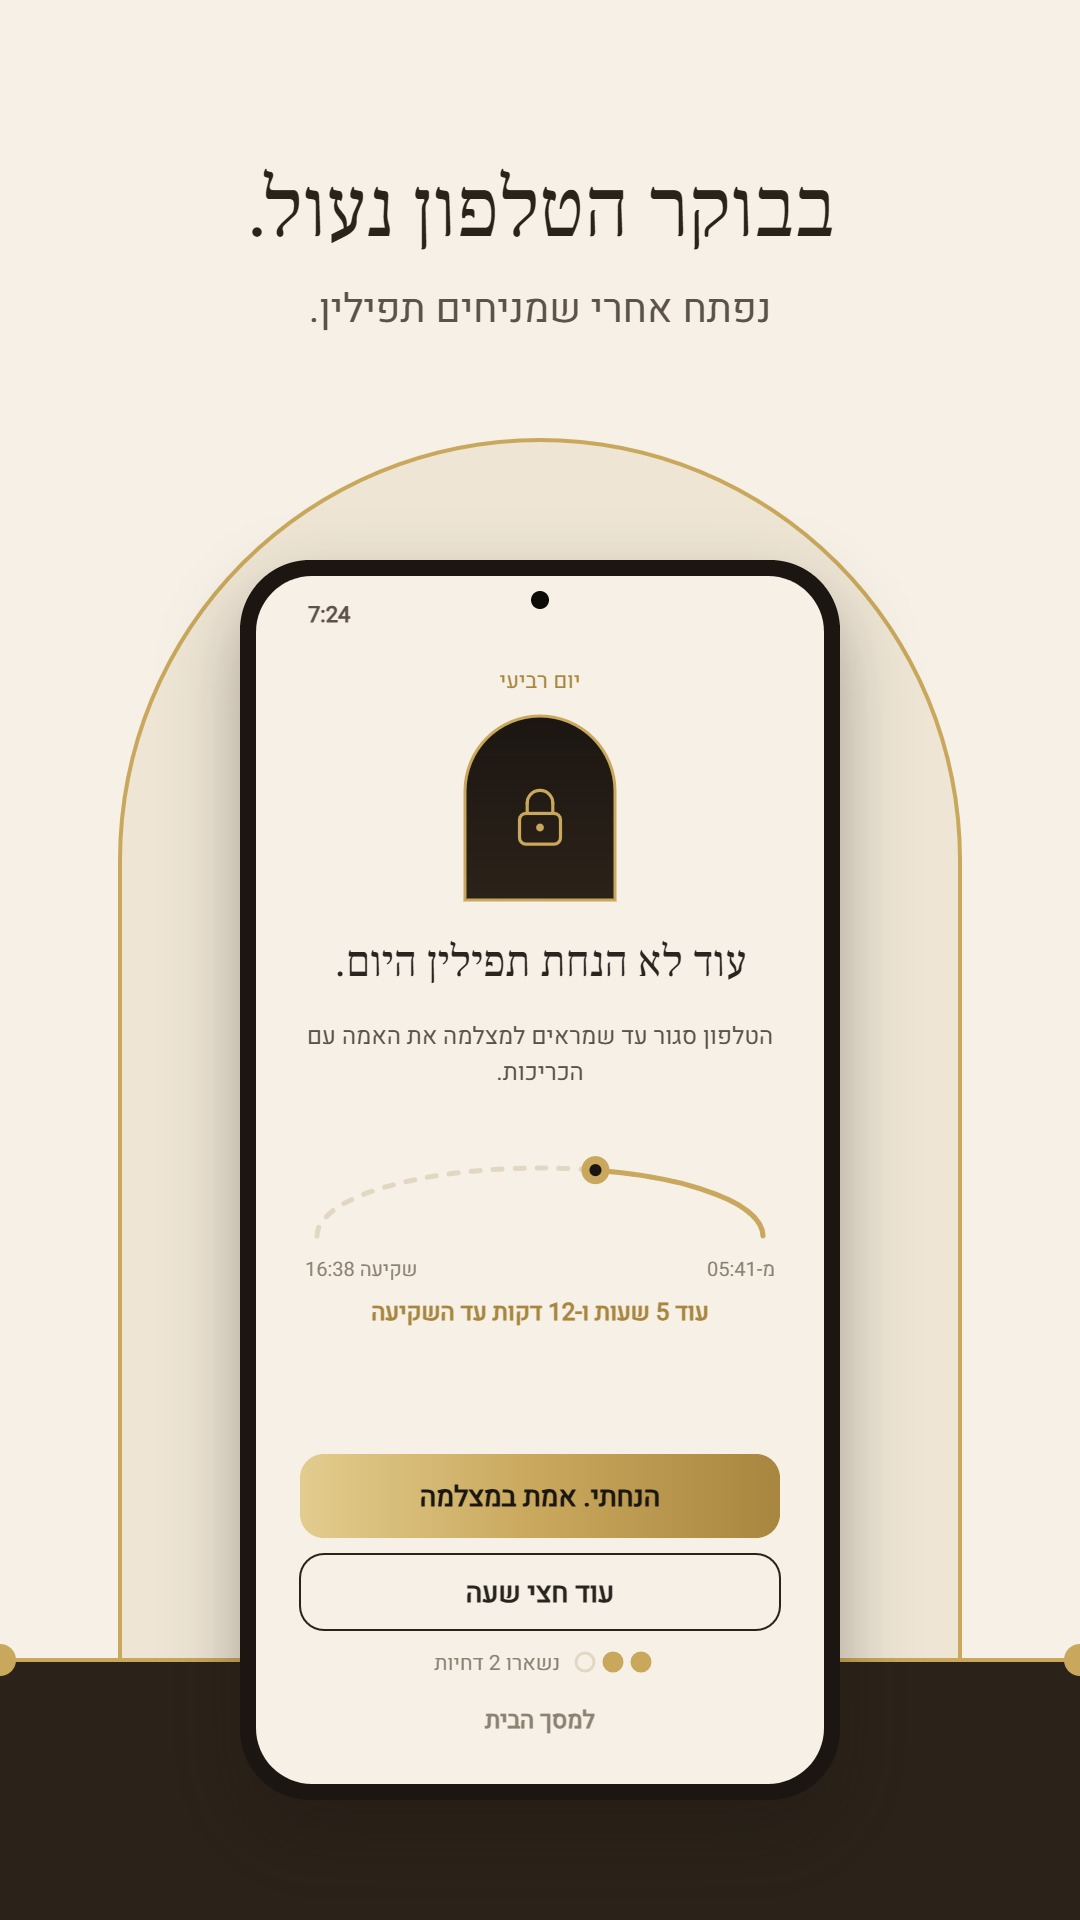
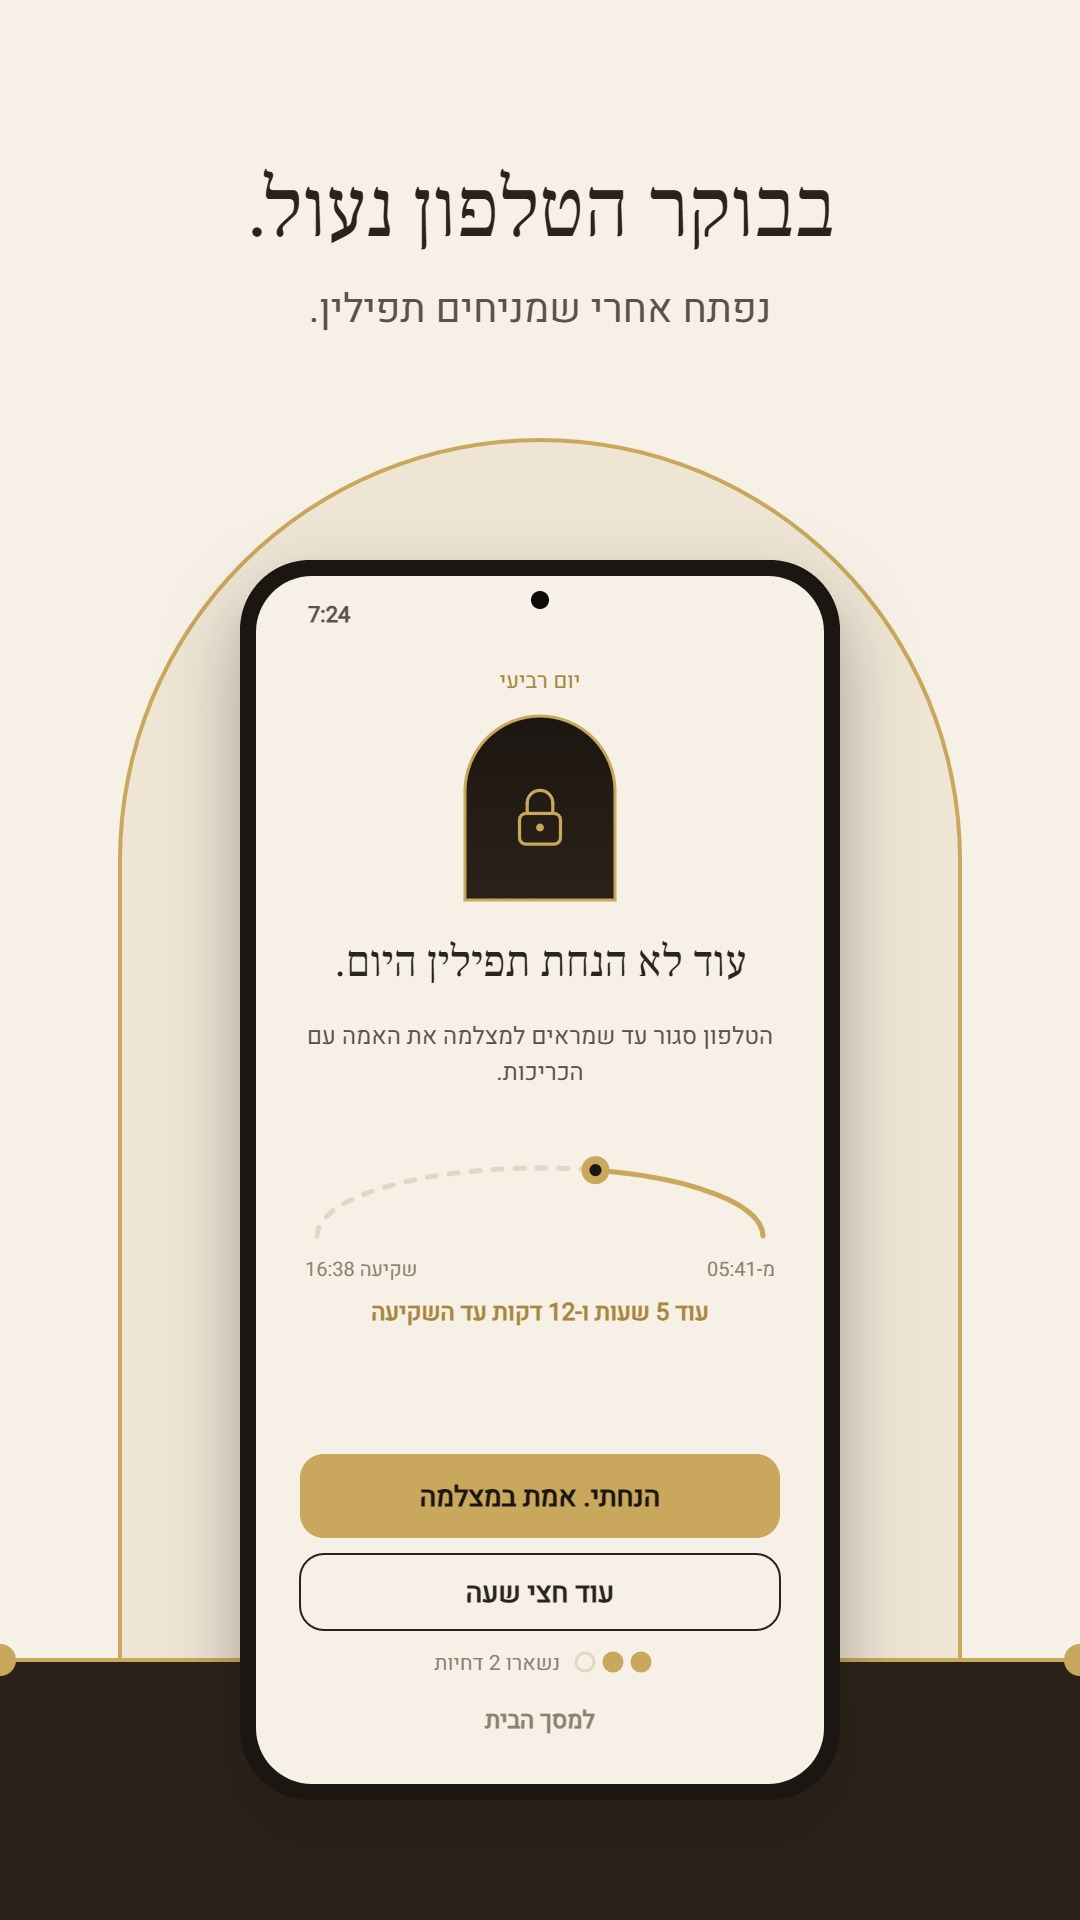
Anti-template pass: buttons say where they lead, no decorative sparkles, flat gold button, store copy lists the new screens; v2.7.1
- First run: "מתחילים" / "הבא" replaced by "להרשאה הראשונה", "להרשאה הבאה", "לבחירת השעה", "לדריכת המנעול".
- Sparkle icons in arches replaced by icons that mean something (tefillin on welcome, candle on dedication).
- GoldButton is one flat gold, no three-stop metallic gradient; store strip and home preview match.
- Play listing: a short section on the day window, the streak calendar and the widget.

Changed region(s): [[0.275, 0.75, 0.3972, 0.8125], [0.6417, 0.75, 0.7333, 0.8125]]

diff --git a/app/src/main/java/app/henachti/ui/screens/OnboardingScreen.kt b/app/src/main/java/app/henachti/ui/screens/OnboardingScreen.kt
@@ -249,12 +249,18 @@ private fun SetupSteps(
         }
 
         Spacer(Modifier.height(12.dp))
+        // every button says where it leads, never a bare "next"
+        val toNext = when {
+            step + 1 <= perms.size -> "להרשאה הבאה"
+            step + 1 == last - 1 -> "לבחירת השעה"
+            else -> "לדריכת המנעול"
+        }
         when {
-            step == 0 -> GoldButton("מתחילים", { step++ }, Modifier.fillMaxWidth())
+            step == 0 -> GoldButton("להרשאה הראשונה", { step++ }, Modifier.fillMaxWidth())
             step <= perms.size -> {
                 val p = perms[step - 1]
                 if (p.on) {
-                    GoldButton("הבא", { step++ }, Modifier.fillMaxWidth())
+                    GoldButton(toNext, { step++ }, Modifier.fillMaxWidth())
                 } else {
                     GoldButton(p.action, p.open, Modifier.fillMaxWidth())
                     if (!p.required) {
@@ -264,7 +270,7 @@ private fun SetupSteps(
                     }
                 }
             }
-            step == last - 1 -> GoldButton("הבא", { step++ }, Modifier.fillMaxWidth())
+            step == last - 1 -> GoldButton(toNext, { step++ }, Modifier.fillMaxWidth())
             else -> {
                 GoldButton("דרוך את המנעול", onArm, Modifier.fillMaxWidth(), enabled = required)
                 if (!required) {
@@ -289,7 +295,7 @@ private fun WelcomePage() {
     Column(Modifier.fillMaxWidth(), horizontalAlignment = Alignment.CenterHorizontally) {
         Arch(width = 116.dp, height = 144.dp) {
             Column(horizontalAlignment = Alignment.CenterHorizontally) {
-                Icon(painterResource(R.drawable.ic_sparkle), contentDescription = null, tint = Palette.Gold, modifier = Modifier.size(38.dp))
+                Icon(painterResource(R.drawable.ic_tefillin), contentDescription = null, tint = Palette.Gold, modifier = Modifier.size(40.dp))
                 Spacer(Modifier.height(8.dp))
                 Text("וּקְשַׁרְתָּם לְאוֹת", style = MaterialTheme.typography.labelSmall, color = Palette.GoldSoft)
             }

diff --git a/app/src/main/java/app/henachti/ui/Components.kt b/app/src/main/java/app/henachti/ui/Components.kt
@@ -190,13 +190,12 @@ fun InkButton(text: String, onClick: () -> Unit, modifier: Modifier = Modifier, 
 
 @Composable
 fun GoldButton(text: String, onClick: () -> Unit, modifier: Modifier = Modifier, enabled: Boolean = true) {
-    val brush = if (enabled) Brush.horizontalGradient(listOf(Palette.GoldDeep, Palette.Gold, Palette.GoldSoft))
-    else Brush.horizontalGradient(listOf(Palette.Sand, Palette.Sand))
+    // one flat accent colour, no metallic gradient
     Box(
         modifier
             .height(56.dp)
             .clip(ButtonShape)
-            .background(brush)
+            .background(if (enabled) Palette.Gold else Palette.Sand)
             .clickable(enabled = enabled, onClick = onClick),
         contentAlignment = Alignment.Center,
     ) {

diff --git a/store/home-mock.html b/store/home-mock.html
@@ -32,7 +32,7 @@ function sky(ax, ay, aw, ah, frac, hours) {
   else dot(px, py, sun * .8, null, P.Gold, 2 * S);
 }
 
-function goldBtn(cx, py, w, label) { const h = 56 * S; rr(cx - w / 2, py, w, h, 16 * S); const g = x.createLinearGradient(cx - w / 2, 0, cx + w / 2, 0); g.addColorStop(0, P.GoldSoft); g.addColorStop(.5, P.Gold); g.addColorStop(1, P.GoldDeep); x.fillStyle = g; x.fill(); T(label, cx, py + h / 2 + 6 * S, f(16, 600), P.ChocolateDeep); return py + h; }
+function goldBtn(cx, py, w, label) { const h = 56 * S; rr(cx - w / 2, py, w, h, 16 * S); x.fillStyle = P.Gold; x.fill(); T(label, cx, py + h / 2 + 6 * S, f(16, 600), P.ChocolateDeep); return py + h; }
 
 function phone(ox, oy, m) {
   const pw = 600, ph = 1240;

diff --git a/app/src/main/java/app/henachti/ui/screens/DedicationScreen.kt b/app/src/main/java/app/henachti/ui/screens/DedicationScreen.kt
@@ -70,7 +70,7 @@ fun DedicationScreen(
                 horizontalAlignment = Alignment.CenterHorizontally,
             ) {
                 Arch(width = 88.dp, height = 106.dp) {
-                    Icon(painterResource(R.drawable.ic_sparkle), contentDescription = null, tint = Palette.Gold, modifier = Modifier.size(34.dp))
+                    Icon(painterResource(R.drawable.ic_candle), contentDescription = null, tint = Palette.Gold, modifier = Modifier.size(34.dp))
                 }
                 Spacer(Modifier.height(14.dp))
                 Text(

diff --git a/store/strip.html b/store/strip.html
@@ -73,7 +73,7 @@ function goldGrad(px, w) {
   return g;
 }
 function goldButton(cx, py, w, h, label) {
-  rr(cx - w / 2, py, w, h, 24); x.fillStyle = goldGrad(cx - w / 2, w); x.fill();
+  rr(cx - w / 2, py, w, h, 24); x.fillStyle = P.Gold; x.fill();
   text(label, cx, py + h / 2 + 10, f(28, 600), P.ChocolateDeep);
 }
 function ghostButton(cx, py, w, h, label) {

diff --git a/store/google-play.md b/store/google-play.md
@@ -47,6 +47,11 @@
 • בשבת, ביום טוב, בחול המועד ובתשעה באב המנעול נח אוטומטית.
 • המנעול נדרך מזמן משיכיר, או משעה מאוחרת יותר שתבחר.
 
+רואים את הדרך
+• מסך הבית מראה את חלון היום, ממשיכיר ועד השקיעה, וכמה זמן נשאר.
+• לוח נקודות של חמשת השבועות האחרונים. שבת וחג לא שוברים את הרצף.
+• ווידג'ט למסך הבית: הנחת היום או לא, כמה דחיות נשארו, והרצף.
+
 מה תמיד פתוח
 חיוג ושיחות, מסך הבית, המקלדת והשעון המעורר לא נחסמים אף פעם. אפשר להוסיף אפליקציות שחייבות להישאר פתוחות.
 
